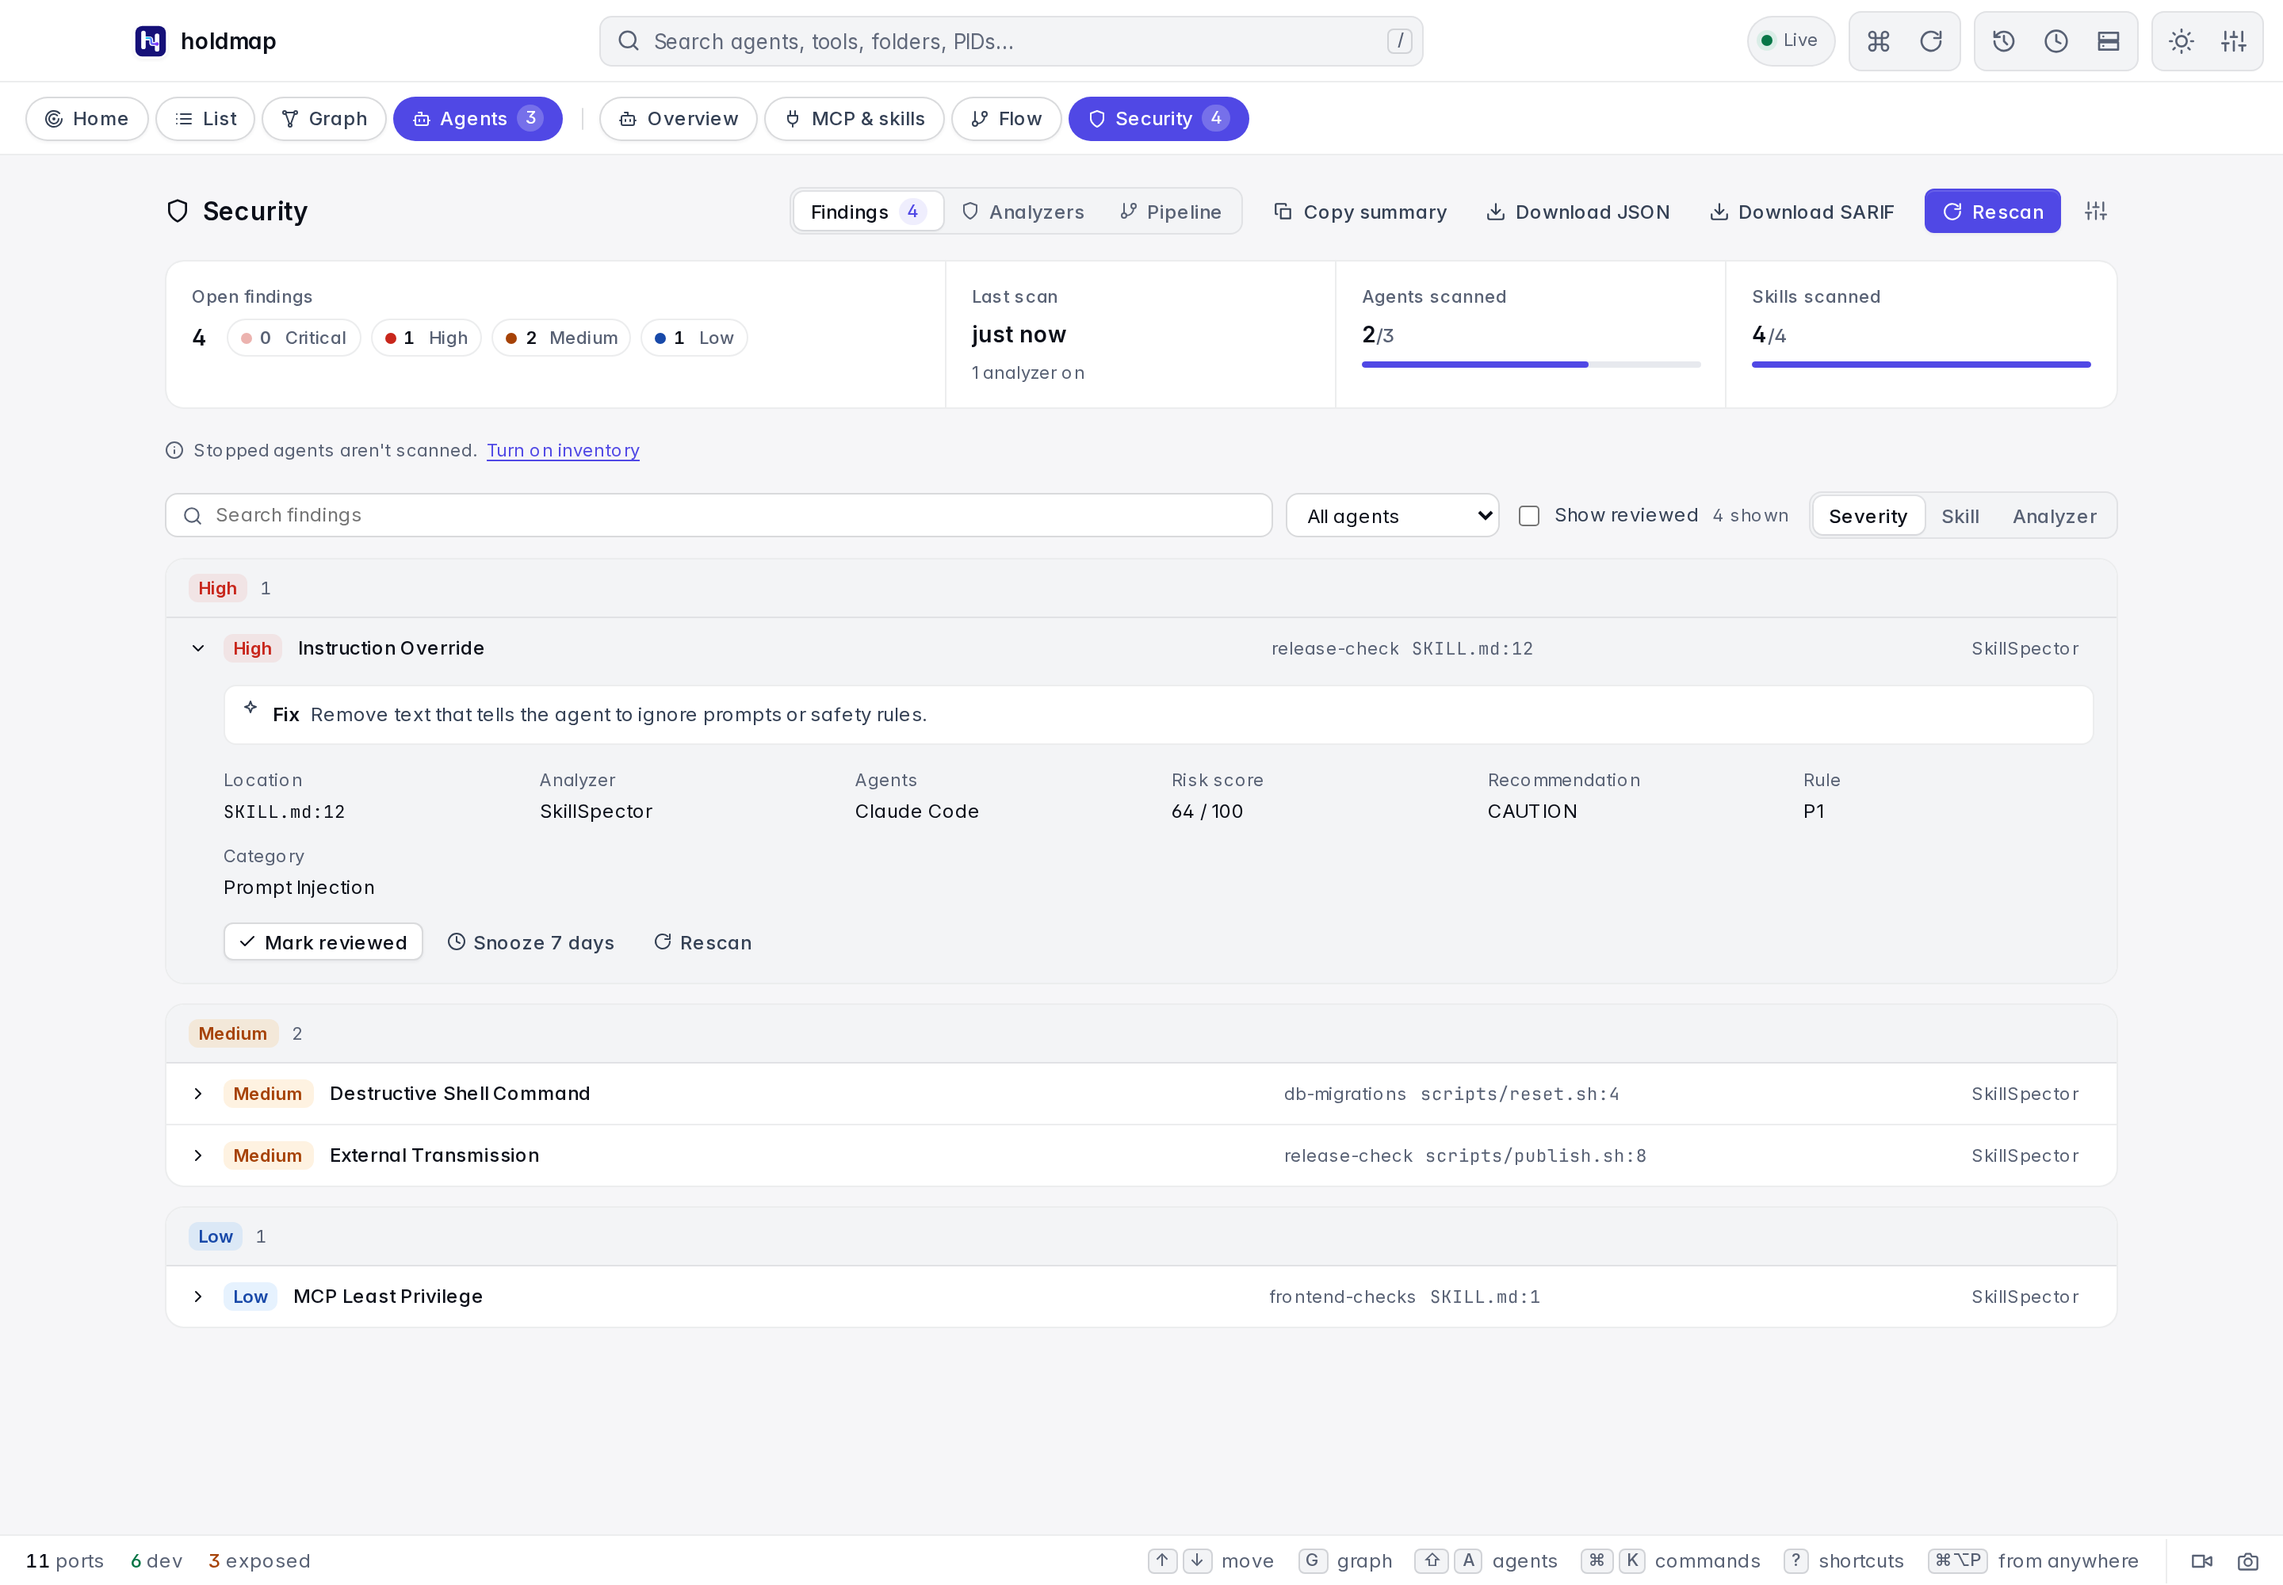
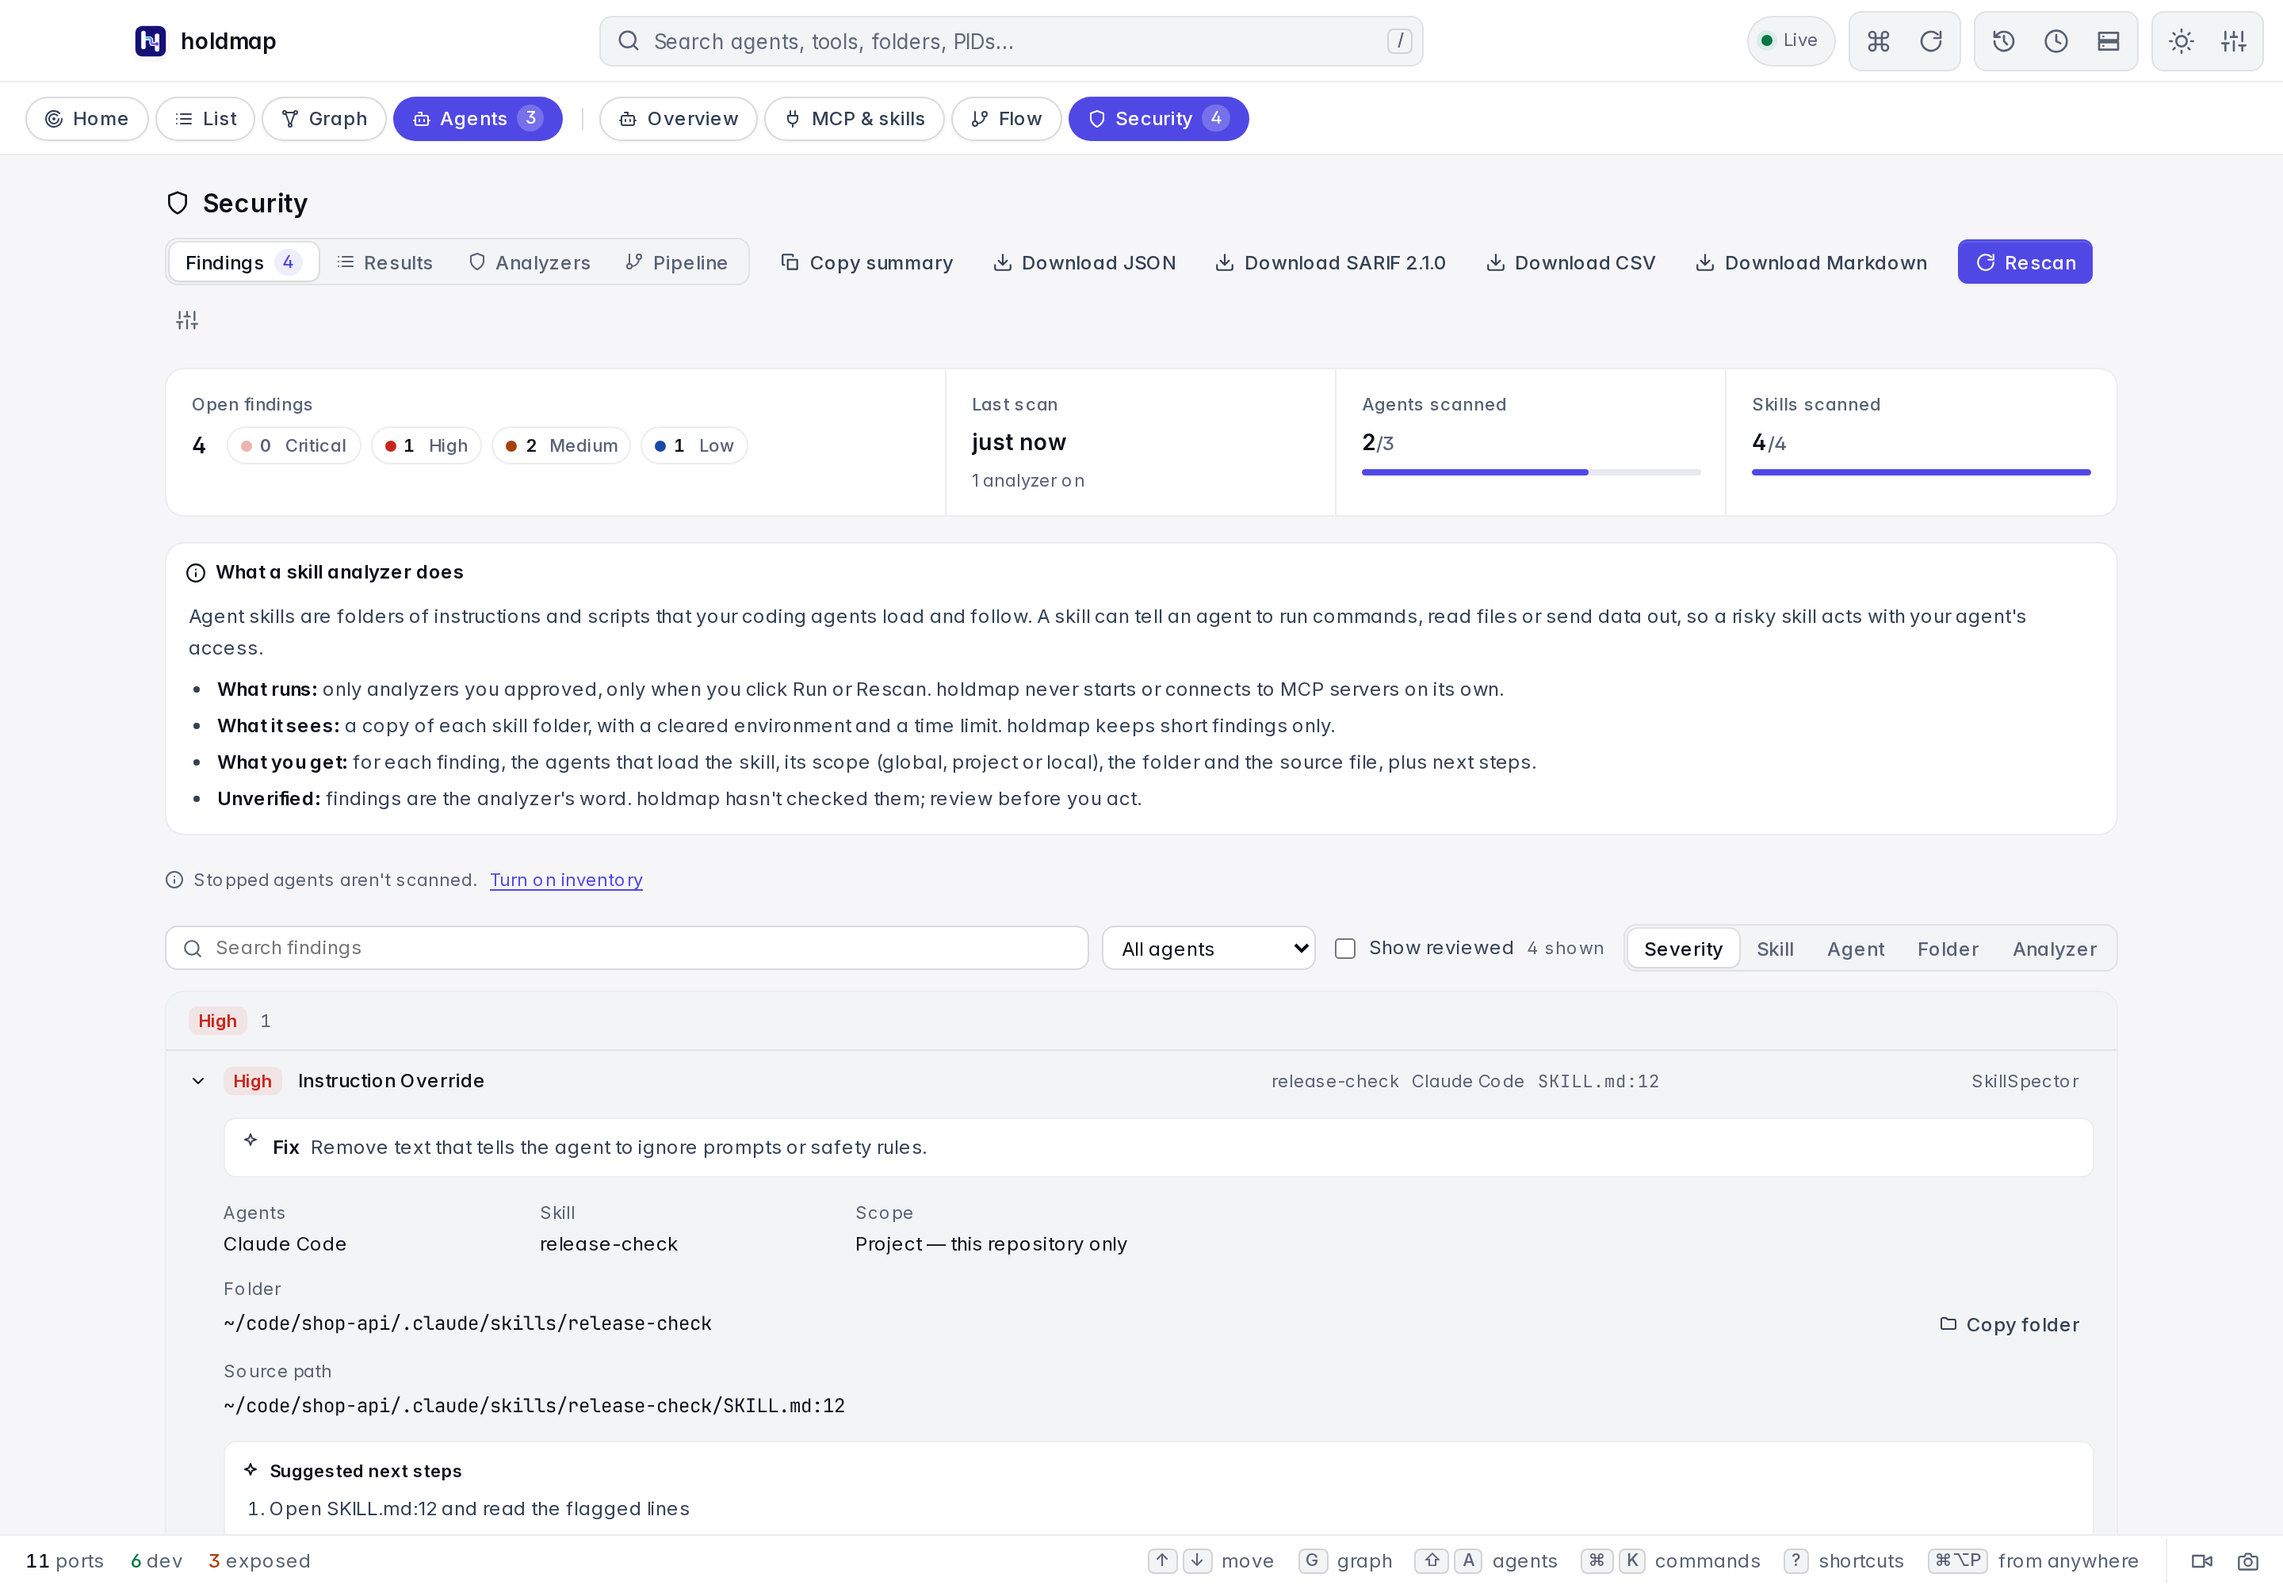
fix(security): readable agent names for agents not running; analyzers walkthrough screenshots

diff --git a/apps/desktop/src/lib/security-view.ts b/apps/desktop/src/lib/security-view.ts
@@ -1,6 +1,7 @@
 // Security tab view-model: pure functions that shape analyzer state into what the Security
 // components draw (summary, grouped findings, gallery cards, run progress). No Svelte, no I/O,
 // so every rule here is unit-tested and the components stay small.
+import { productLabel } from "./run-view";
 import { SEVERITY_ORDER, emptyCounts, findingWhere, total, type AnalyzerResult, type AnalyzerView, type Finding, type Insights, type Severity, type SeverityCounts, type Subject } from "./analyzers";
 import type { PresetView } from "./analyzer-presets";
 
@@ -77,7 +78,7 @@ export function findingItems(insights: Insights | null, analyzers: AnalyzerView[
         subject,
         analyzer: r.analyzer,
         analyzerName: names.get(r.analyzer) ?? r.analyzer,
-        agents: (subject?.agents ?? []).map((p) => agentNames.get(p) ?? p),
+        agents: (subject?.agents ?? []).map((p) => agentNames.get(p) ?? productLabel(p)),
         where: findingWhere(f),
         evidence: evidence(r, f),
         folder: subject?.dir ?? null,
@@ -246,5 +247,5 @@ export function firstSentence(s: string): string {
   return (m ? m[1] : s).replace(/[.]$/, "");
 }
 
-export { scopeLabel, runProgress, stepLabel, runFraction, elapsed, runSummary } from "./run-view";
+export { productLabel, scopeLabel, runProgress, stepLabel, runFraction, elapsed, runSummary } from "./run-view";
 export type { RunPhase, RunStep, RunProgress } from "./run-view";

diff --git a/apps/desktop/src/lib/analyzer-graph.ts b/apps/desktop/src/lib/analyzer-graph.ts
@@ -6,6 +6,7 @@ import type { AnalyzerResult, AnalyzerView, Insights, Preview, Severity, Severit
 import { SANDBOX_LABEL, SEVERITY_ORDER, STATE_LABEL, countsText, emptyCounts, total, worst } from "./analyzers";
 import type { AgentsReport } from "./types";
 import { inventories } from "./agent-config";
+import { productLabel } from "./run-view";
 
 export type StageKind = "sources" | "projection" | "sandbox" | "analyzer" | "parser" | "findings" | "surface";
 export type NodeStatus = "ok" | "warn" | "error" | "idle";
@@ -237,7 +238,7 @@ export function buildOverview(views: AnalyzerView[], insights: Insights | null, 
   const results = new Map((insights?.results ?? []).map((r) => [r.analyzer, r]));
   const agentNames = new Map<string, string>();
   for (const i of inventories(report)) if (!agentNames.has(i.product)) agentNames.set(i.product, i.name);
-  for (const r of results.values()) for (const s of r.subjects) for (const a of s.agents) if (!agentNames.has(a)) agentNames.set(a, a);
+  for (const r of results.values()) for (const s of r.subjects) for (const a of s.agents) if (!agentNames.has(a)) agentNames.set(a, productLabel(a));
   const products = [...agentNames.keys()].sort((a, b) => (agentNames.get(a) ?? a).localeCompare(agentNames.get(b) ?? b));
   const nodes: GraphNode[] = [];
   const edges: GraphEdge[] = [];

diff --git a/apps/desktop/src/lib/run-view.ts b/apps/desktop/src/lib/run-view.ts
@@ -2,6 +2,11 @@
 // don't pull the whole Security view into the first screen.
 import type { RunEvent } from "./analyzers";
 
+/** A readable name for a catalog product id holdmap isn't seeing right now: "claude-code" → "Claude Code". */
+export function productLabel(id: string): string {
+  return id.split(/[-_]/).filter(Boolean).map((w) => w[0].toUpperCase() + w.slice(1)).join(" ") || id;
+}
+
 /** Scope in plain words; "unknown" when holdmap couldn't tell. */
 export function scopeLabel(scope: string | null | undefined): string {
   switch (scope) {

diff --git a/apps/desktop/src/lib/analyzers-ux.test.ts b/apps/desktop/src/lib/analyzers-ux.test.ts
@@ -254,3 +254,12 @@ describe("exports carry only what's shown", () => {
     expect(securityMarkdown([], summary, 0)).toContain("No findings.");
   });
 });
+
+describe("agent names", () => {
+  it("names agents holdmap isn't seeing from their product id", async () => {
+    const { productLabel } = await import("./run-view");
+    expect(productLabel("codex")).toBe("Codex");
+    expect(productLabel("claude-code")).toBe("Claude Code");
+    expect(productLabel("")).toBe("");
+  });
+});
